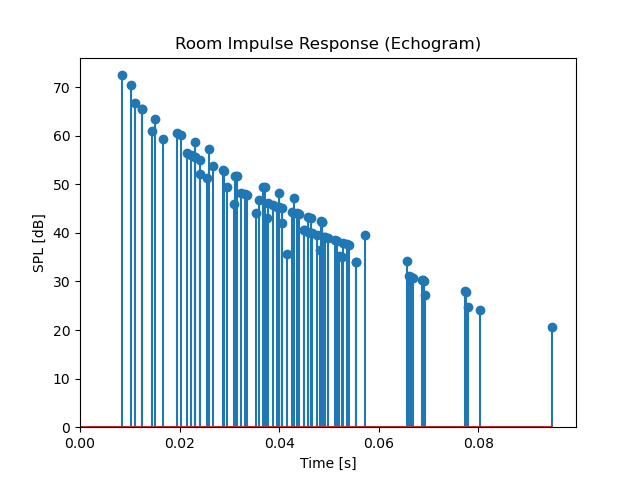
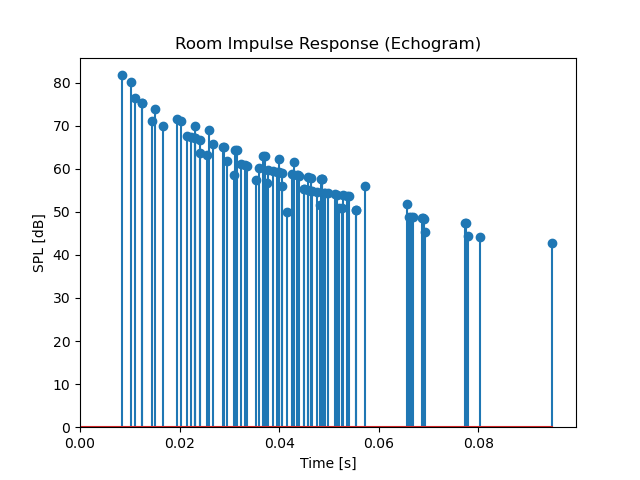
Small improvements

diff --git a/imgsrcs.py b/imgsrcs.py
@@ -197,7 +197,8 @@ def cal_dist_from_srcs_to_rec(srcs_list:List[Room], rec_point:Point): #lista wsz
     return dists_and_alfas_for_all
 
 def cal_sum_intensity(spl, m, dists_and_alfas, coefs):
-    Q = 2e-5*10**(spl/20)
+    Z = 409
+    Q = (2e-5**2)*(10**(spl/10))/Z*2*math.pi # I = p^2/Z Wmax = Q = I*S - półsfera 1m
     I = 0
     for i in dists_and_alfas:
         Itemp = Q/(4*math.pi*i[0]**2)*math.exp(-m*i[0])
@@ -209,8 +210,8 @@ def cal_sum_intensity(spl, m, dists_and_alfas, coefs):
 def cal_echogram_and_plot(spl, m, dists_and_alfas, coefs):
     dists_and_alfas.sort(key=lambda d: d[0])
     c = 343 # speed of sound in normal conditions
-    Z = 429 # characteristic impedance of air
-    Q = (2e-5**2)*(10**(spl/10))/Z # Imax = p^2/Z
+    Z = 409 # characteristic impedance of air
+    Q = (2e-5**2)*(10**(spl/10))/Z*2*math.pi # I = p^2/Z Wmax = Q = I*S - półsfera 1m
     dt_amps = np.array([0,0])
     for d in dists_and_alfas:
         amplitude = Q/(4*math.pi*d[0]**2)*math.exp(-m*d[0])
@@ -254,6 +255,7 @@ def schroeder_integral(dt_amps: np.ndarray):
     plt.title('Schroeder energy decay curve')
     plt.xlabel('Time [s]')
     plt.ylabel('Energy decay magnitude [dB]')
+    plt.xlim(left=0)
     return schr_int
 
 def linear_regression(x,y):

diff --git a/main.py b/main.py
@@ -19,7 +19,8 @@ if __name__ == '__main__':
     alfa4 = 0.4 # dolna
     # parametry źródła wszechkierunkowego
     spl = 94 # poziom ciśnienia akustycznego na 1 m w dB, 
-    m = 0.1  # mocowy współczynnik tłumienia m
+    m = 10e-12*10**(0.5*10e-3/10) # średni mocowy współczynnik tłumienia m [W/m]
+    print("Power damping factor of air [W/m]: %f" % m)
     # ------------------
     # CZĘŚĆ OBLICZENIOWA
     if (dist_src_from_left_wall <= l and dist_src_from_down_wall <= w \
